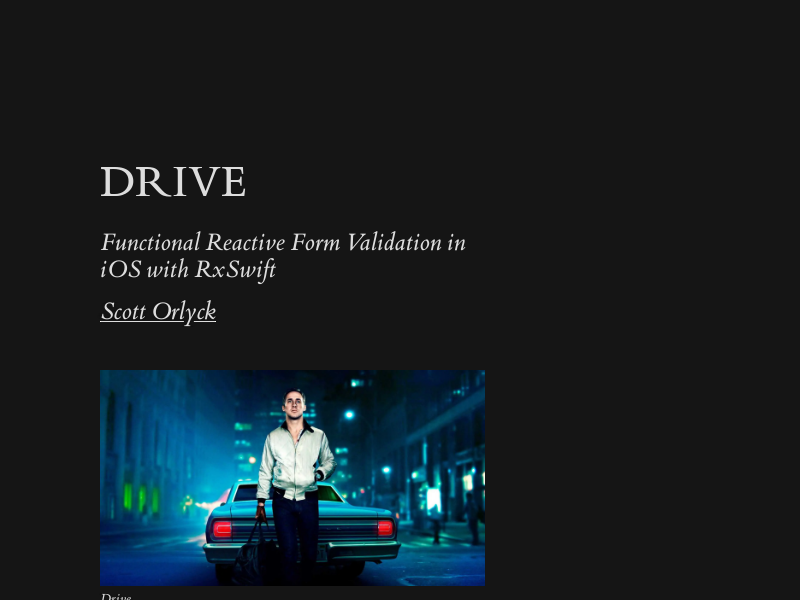
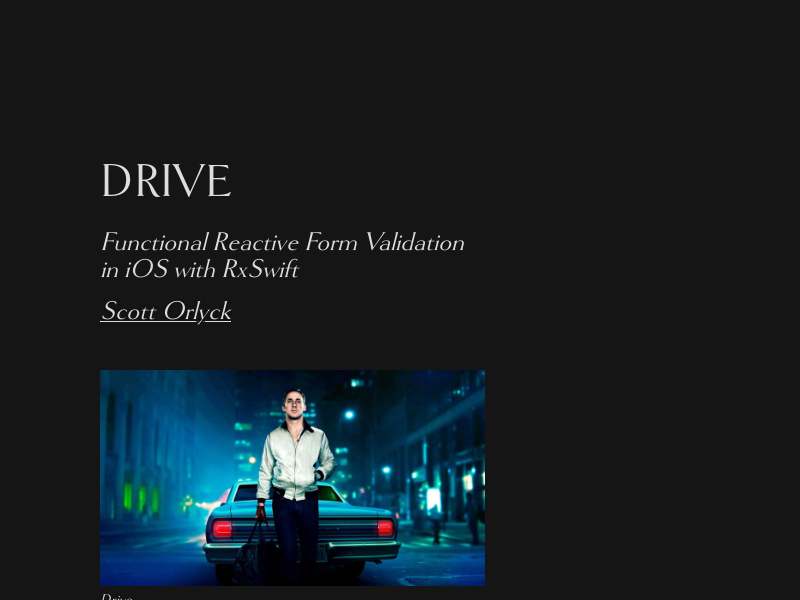
Render and commit.

diff --git a/docs/assets/index.d69d9aa2.css b/docs/assets/index.d69d9aa2.css
@@ -1,0 +1,1 @@
+@import"https://use.typekit.net/hax1mrg.css";html{font-size:15px}body{background-color:#fffff8;color:#111;counter-reset:sidenote-counter;font-family:goldenbook;margin-left:auto;margin-right:auto;max-width:1400px;padding-left:12.5%;width:87.5%}@media (color-index:48){body{background-color:#151515;color:#ddd}}@media (color:48842621){body{background-color:#151515;color:#ddd}}@media (prefers-color-scheme:dark){body{background-color:#151515;color:#ddd}}h1{font-size:3.2rem;font-weight:400;line-height:1;margin-bottom:1.5rem;margin-top:4rem}h2{font-size:2.2rem;margin-top:2.1rem}h2,h3{font-style:italic;font-weight:400;line-height:1;margin-bottom:1.4rem}h3{font-size:1.7rem;margin-top:2rem}hr{border:0;border-top:1px solid #ccc;display:block;height:1px;margin:1em 0;padding:0;width:55%}p.subtitle{display:block;font-size:1.8rem;font-style:italic;line-height:1;margin-bottom:1rem;margin-top:1rem}.numeral{font-family:goldenbook}.danger{color:red}article{padding:5rem 0}section{padding-bottom:1rem;padding-top:1rem}dl,ol,p,ul{font-size:1.4rem;line-height:2rem}p{margin-bottom:1.4rem;margin-top:1.4rem;padding-right:0;vertical-align:baseline}div.epigraph{margin:5em 0}div.epigraph>blockquote{margin-bottom:3em;margin-top:3em}div.epigraph>blockquote,div.epigraph>blockquote>p{font-style:italic}div.epigraph>blockquote>footer{font-style:normal}div.epigraph>blockquote>footer>cite{font-style:italic}blockquote{font-size:1.4rem}blockquote p{margin-right:40px;width:55%}blockquote footer{font-size:1.1rem;text-align:right;width:55%}section>footer,section>p,section>table{width:55%}section>dl,section>ol,section>ul{-webkit-padding-start:5%;width:50%}dt:not(:first-child),li:not(:first-child){margin-top:.25rem}figure{-webkit-margin-start:0;-webkit-margin-end:0;border:0;font-size:100%;font:inherit;margin:0 0 3em;max-width:55%;padding:0}figcaption,figure{vertical-align:baseline}figcaption{clear:right;float:right;font-size:1.1rem;line-height:1.6;margin-bottom:0;margin-top:0;max-width:40%;position:relative}figure.fullwidth figcaption{margin-right:24%}a:link,a:visited{color:inherit}.no-tufte-underline:link{background:transparent none repeat 0 0/auto auto padding-box border-box scroll;background:initial;text-shadow:inherit}.hover-tufte-underline:hover,.tufte-underline,a:link{background:linear-gradient(#fffff8,#fffff8),linear-gradient(#fffff8,#fffff8),linear-gradient(currentColor,currentColor);background-position:0 93%,100% 93%,0 93%;background-repeat:no-repeat,no-repeat,repeat-x;background-size:.05em 1px,.05em 1px,1px 1px;text-decoration:none;text-shadow:.03em 0 #fffff8,-.03em 0 #fffff8,0 .03em #fffff8,0 -.03em #fffff8,.06em 0 #fffff8,-.06em 0 #fffff8,.09em 0 #fffff8,-.09em 0 #fffff8,.12em 0 #fffff8,-.12em 0 #fffff8,.15em 0 #fffff8,-.15em 0 #fffff8}@media screen and (-webkit-min-device-pixel-ratio:0){.hover-tufte-underline:hover,.tufte-underline,a:link{background-position-y:87%,87%,87%}}@media (color-index:48){.hover-tufte-underline:hover,.tufte-underline,a:link{text-shadow:.03em 0 #151515,-.03em 0 #151515,0 .03em #151515,0 -.03em #151515,.06em 0 #151515,-.06em 0 #151515,.09em 0 #151515,-.09em 0 #151515,.12em 0 #151515,-.12em 0 #151515,.15em 0 #151515,-.15em 0 #151515}}@media (color:48842621){.hover-tufte-underline:hover,.tufte-underline,a:link{text-shadow:.03em 0 #151515,-.03em 0 #151515,0 .03em #151515,0 -.03em #151515,.06em 0 #151515,-.06em 0 #151515,.09em 0 #151515,-.09em 0 #151515,.12em 0 #151515,-.12em 0 #151515,.15em 0 #151515,-.15em 0 #151515}}@media (prefers-color-scheme:dark){.hover-tufte-underline:hover,.tufte-underline,a:link{text-shadow:.03em 0 #151515,-.03em 0 #151515,0 .03em #151515,0 -.03em #151515,.06em 0 #151515,-.06em 0 #151515,.09em 0 #151515,-.09em 0 #151515,.12em 0 #151515,-.12em 0 #151515,.15em 0 #151515,-.15em 0 #151515}}a:link::-moz-selection{background:#b4d5fe;text-shadow:.03em 0 #b4d5fe,-.03em 0 #b4d5fe,0 .03em #b4d5fe,0 -.03em #b4d5fe,.06em 0 #b4d5fe,-.06em 0 #b4d5fe,.09em 0 #b4d5fe,-.09em 0 #b4d5fe,.12em 0 #b4d5fe,-.12em 0 #b4d5fe,.15em 0 #b4d5fe,-.15em 0 #b4d5fe}a:link::-moz-selection,a:link::selection{background:#b4d5fe;text-shadow:.03em 0 #b4d5fe,-.03em 0 #b4d5fe,0 .03em #b4d5fe,0 -.03em #b4d5fe,.06em 0 #b4d5fe,-.06em 0 #b4d5fe,.09em 0 #b4d5fe,-.09em 0 #b4d5fe,.12em 0 #b4d5fe,-.12em 0 #b4d5fe,.15em 0 #b4d5fe,-.15em 0 #b4d5fe}img{max-width:100%}.marginnote,.sidenote{clear:right;float:right;font-size:1.1rem;line-height:1.3;margin-bottom:0;margin-right:-60%;margin-top:.3rem;position:relative;vertical-align:baseline;width:50%}.sidenote-number{counter-increment:sidenote-counter}.sidenote-number:after,.sidenote:before{font-family:goldenbook;position:relative;vertical-align:baseline}.sidenote-number:after{content:counter(sidenote-counter);font-size:1rem;left:.1rem;top:-.5rem}.sidenote:before{content:counter(sidenote-counter) " ";font-size:1rem;top:-.5rem}blockquote .marginnote,blockquote .sidenote{margin-right:-82%;min-width:59%;text-align:left}div.fullwidth,table.fullwidth{width:100%}div.table-wrapper{font-family:Trebuchet MS,Gill Sans,Gill Sans MT,sans-serif;overflow-x:auto}.sans{font-family:Gill Sans,Gill Sans MT,Calibri,sans-serif;letter-spacing:.03em}code,pre>code{-webkit-text-size-adjust:100%;font-family:anonymous-pro,monospace;font-size:1rem;line-height:1.42}.sans>code{font-size:1.2rem}h1>code,h2>code,h3>code{font-size:.8em}.marginnote>code,.sidenote>code{font-size:1rem}pre>code{display:block;font-size:.9rem;margin-left:2.5%;overflow-x:auto;width:52.5%}pre.fullwidth>code{width:90%}.fullwidth{clear:both;max-width:90%}span.newthought{-webkit-font-feature-settings:"smcp";font-feature-settings:"smcp";font-size:1.2em;font-variant:small-caps}input.margin-toggle{display:none}label.sidenote-number{display:inline-block;max-height:2rem}label.margin-toggle:not(.sidenote-number){display:none}.iframe-wrapper{height:0;padding-bottom:56.25%;padding-top:25px;position:relative}.iframe-wrapper iframe{height:100%;left:0;position:absolute;top:0;width:100%}@media (max-width:760px){body{padding-left:8%;padding-right:8%;width:84%}hr,section>footer,section>p,section>table{width:100%}pre>code{width:97%}section>dl,section>ol,section>ul{width:90%}figure{max-width:90%}figcaption,figure.fullwidth figcaption{margin-right:0;max-width:none}blockquote{margin-left:1.5em;margin-right:0}blockquote footer,blockquote p{width:100%}label.margin-toggle:not(.sidenote-number){display:inline}.marginnote,.sidenote{display:none}.margin-toggle:checked+.marginnote,.margin-toggle:checked+.sidenote{clear:both;display:block;float:left;left:1rem;margin:1rem 2.5%;position:relative;vertical-align:baseline;width:95%}label{cursor:pointer}div.table-wrapper,table{width:85%}img{width:100%}}pre[data-line]{padding:1em 0 1em 3em;position:relative}.line-highlight{background:hsla(24,20%,50%,.08);background:linear-gradient(90deg,hsla(24,20%,50%,.1) 70%,hsla(24,20%,50%,0));left:0;line-height:inherit;margin-top:1em;padding-bottom:inherit;padding-left:0;padding-right:0;padding-top:inherit;pointer-events:none;position:absolute;right:0;white-space:pre}@media print{.line-highlight{color-adjust:exact;-webkit-print-color-adjust:exact}}.line-highlight:before,.line-highlight[data-end]:after{background-color:#997a6666;border-radius:999px;box-shadow:0 1px #fff;color:#f5f2f0;content:attr(data-start);font:700 65%/1.5 sans-serif;left:.6em;min-width:1em;padding:0 .5em;position:absolute;text-align:center;text-shadow:none;top:.4em;vertical-align:.3em}.line-highlight[data-end]:after{bottom:.4em;content:attr(data-end);top:auto}.line-numbers .line-highlight:after,.line-numbers .line-highlight:before{content:none}pre[id].linkable-line-numbers span.line-numbers-rows{pointer-events:all}pre[id].linkable-line-numbers span.line-numbers-rows>span:before{cursor:pointer}pre[id].linkable-line-numbers span.line-numbers-rows>span:hover:before{background-color:#80808033}@media screen{code[class*=language-],pre[class*=language-]{background:#faf8f5;color:#728fcb;direction:ltr;font-family:Consolas,Menlo,Monaco,Andale Mono WT,Andale Mono,Lucida Console,Lucida Sans Typewriter,DejaVu Sans Mono,Bitstream Vera Sans Mono,Liberation Mono,Nimbus Mono L,Courier New,Courier,monospace;font-size:14px;-webkit-hyphens:none;-ms-hyphens:none;hyphens:none;line-height:1.375;-moz-tab-size:4;-o-tab-size:4;tab-size:4;text-align:left;white-space:pre;word-break:normal;word-spacing:normal}code[class*=language-] ::-moz-selection,code[class*=language-]::-moz-selection,pre[class*=language-] ::-moz-selection,pre[class*=language-]::-moz-selection{background:#faf8f5;text-shadow:none}code[class*=language-] ::selection,code[class*=language-]::selection,pre[class*=language-] ::selection,pre[class*=language-]::selection{background:#faf8f5;text-shadow:none}pre[class*=language-]{margin:.5em 0;overflow:auto;padding:1em}:not(pre)>code[class*=language-]{border-radius:.3em;padding:.1em}.token.cdata,.token.comment,.token.doctype,.token.prolog,.token.punctuation{color:#b6ad9a}.token.namespace{opacity:.7}.token.number,.token.operator,.token.tag{color:#063289}.token.function,.token.property{color:#b29762}.token.atrule-id,.token.selector,.token.tag-id{color:#2d2006}.token.attr-name,code.language-javascript{color:#896724}.language-css .token.string,.language-scss .token.string,.style .token.string,.token.atrule,.token.attr-value,.token.boolean,.token.control,.token.directive,.token.entity,.token.keyword,.token.regex,.token.statement,.token.string,.token.unit,.token.url,code.language-css,code.language-scss{color:#728fcb}.token.placeholder,.token.variable{color:#93abdc}.token.deleted{text-decoration:line-through}.token.inserted{border-bottom:1px dotted #2d2006;text-decoration:none}.token.italic{font-style:italic}.token.bold,.token.important{font-weight:700}.token.important{color:#896724}.token.entity{cursor:help}pre>code.highlight{outline:.4em solid #896724;outline-offset:.4em}.line-numbers.line-numbers .line-numbers-rows{border-right-color:#ece8de}.line-numbers .line-numbers-rows>span:before{color:#cdc4b1}.line-highlight.line-highlight{background:rgba(45,32,6,.2);background:linear-gradient(90deg,rgba(45,32,6,.2) 70%,rgba(45,32,6,0))}}@media screen and (color-index:48){code[class*=language-],pre[class*=language-]{background:#030314;color:#d6e7ff;direction:ltr;font-family:Consolas,Menlo,Monaco,Andale Mono WT,Andale Mono,Lucida Console,Lucida Sans Typewriter,DejaVu Sans Mono,Bitstream Vera Sans Mono,Liberation Mono,Nimbus Mono L,Courier New,Courier,monospace;font-size:14px;-webkit-hyphens:none;-ms-hyphens:none;hyphens:none;line-height:1.375;-moz-tab-size:4;-o-tab-size:4;tab-size:4;text-align:left;white-space:pre;word-break:normal;word-spacing:normal}code[class*=language-] ::-moz-selection,code[class*=language-]::-moz-selection,pre[class*=language-] ::-moz-selection,pre[class*=language-]::-moz-selection{background:#1d3b54;color:inherit;text-shadow:none}code[class*=language-] ::-moz-selection,code[class*=language-] ::selection,code[class*=language-]::-moz-selection,code[class*=language-]::selection,pre[class*=language-] ::-moz-selection,pre[class*=language-] ::selection,pre[class*=language-]::-moz-selection,pre[class*=language-]::selection{background:#1d3b54;color:inherit;text-shadow:none}pre[class*=language-]{border:1px solid #2a4555;border-radius:5px;margin:1em 0;overflow:auto}:not(pre)>code[class*=language-]{background:#2a4555;border-radius:.2em;-webkit-box-decoration-break:clone;box-decoration-break:clone;color:#f0f6f6;padding:.2em .3em}.token.cdata,.token.comment,.token.doctype,.token.prolog{color:#446e69}.token.punctuation{color:#d6b007}.token.boolean,.token.constant,.token.deleted,.token.number,.token.property,.token.symbol,.token.tag{color:#d6e7ff}.token.attr-name,.token.builtin,.token.inserted,.token.selector{color:#e60067}.token.char,.token.string{color:#49c6ec}.language-css .token.string,.style .token.string,.token.entity,.token.operator,.token.url{background:transparent;color:#ec8e01}.token.atrule,.token.attr-value,.token.keyword{color:#0fe468}.token.class-name,.token.function{color:#78f3e9}.token.important,.token.regex,.token.variable{color:#d6e7ff}}@media screen and (color:48842621){code[class*=language-],pre[class*=language-]{background:#030314;color:#d6e7ff;direction:ltr;font-family:Consolas,Menlo,Monaco,Andale Mono WT,Andale Mono,Lucida Console,Lucida Sans Typewriter,DejaVu Sans Mono,Bitstream Vera Sans Mono,Liberation Mono,Nimbus Mono L,Courier New,Courier,monospace;font-size:14px;-webkit-hyphens:none;-ms-hyphens:none;hyphens:none;line-height:1.375;-moz-tab-size:4;-o-tab-size:4;tab-size:4;text-align:left;white-space:pre;word-break:normal;word-spacing:normal}code[class*=language-] ::-moz-selection,code[class*=language-]::-moz-selection,pre[class*=language-] ::-moz-selection,pre[class*=language-]::-moz-selection{background:#1d3b54;color:inherit;text-shadow:none}code[class*=language-] ::-moz-selection,code[class*=language-] ::selection,code[class*=language-]::-moz-selection,code[class*=language-]::selection,pre[class*=language-] ::-moz-selection,pre[class*=language-] ::selection,pre[class*=language-]::-moz-selection,pre[class*=language-]::selection{background:#1d3b54;color:inherit;text-shadow:none}pre[class*=language-]{border:1px solid #2a4555;border-radius:5px;margin:1em 0;overflow:auto}:not(pre)>code[class*=language-]{background:#2a4555;border-radius:.2em;-webkit-box-decoration-break:clone;box-decoration-break:clone;color:#f0f6f6;padding:.2em .3em}.token.cdata,.token.comment,.token.doctype,.token.prolog{color:#446e69}.token.punctuation{color:#d6b007}.token.boolean,.token.constant,.token.deleted,.token.number,.token.property,.token.symbol,.token.tag{color:#d6e7ff}.token.attr-name,.token.builtin,.token.inserted,.token.selector{color:#e60067}.token.char,.token.string{color:#49c6ec}.language-css .token.string,.style .token.string,.token.entity,.token.operator,.token.url{background:transparent;color:#ec8e01}.token.atrule,.token.attr-value,.token.keyword{color:#0fe468}.token.class-name,.token.function{color:#78f3e9}.token.important,.token.regex,.token.variable{color:#d6e7ff}}@media screen and (prefers-color-scheme:dark){code[class*=language-],pre[class*=language-]{background:#030314;color:#d6e7ff;direction:ltr;font-family:Consolas,Menlo,Monaco,Andale Mono WT,Andale Mono,Lucida Console,Lucida Sans Typewriter,DejaVu Sans Mono,Bitstream Vera Sans Mono,Liberation Mono,Nimbus Mono L,Courier New,Courier,monospace;font-size:14px;-webkit-hyphens:none;-ms-hyphens:none;hyphens:none;line-height:1.375;-moz-tab-size:4;-o-tab-size:4;tab-size:4;text-align:left;white-space:pre;word-break:normal;word-spacing:normal}code[class*=language-] ::-moz-selection,code[class*=language-]::-moz-selection,pre[class*=language-] ::-moz-selection,pre[class*=language-]::-moz-selection{background:#1d3b54;color:inherit;text-shadow:none}code[class*=language-] ::-moz-selection,code[class*=language-] ::selection,code[class*=language-]::-moz-selection,code[class*=language-]::selection,pre[class*=language-] ::-moz-selection,pre[class*=language-] ::selection,pre[class*=language-]::-moz-selection,pre[class*=language-]::selection{background:#1d3b54;color:inherit;text-shadow:none}pre[class*=language-]{border:1px solid #2a4555;border-radius:5px;margin:1em 0;overflow:auto}:not(pre)>code[class*=language-]{background:#2a4555;border-radius:.2em;-webkit-box-decoration-break:clone;box-decoration-break:clone;color:#f0f6f6;padding:.2em .3em}.token.cdata,.token.comment,.token.doctype,.token.prolog{color:#446e69}.token.punctuation{color:#d6b007}.token.boolean,.token.constant,.token.deleted,.token.number,.token.property,.token.symbol,.token.tag{color:#d6e7ff}.token.attr-name,.token.builtin,.token.inserted,.token.selector{color:#e60067}.token.char,.token.string{color:#49c6ec}.language-css .token.string,.style .token.string,.token.entity,.token.operator,.token.url{background:transparent;color:#ec8e01}.token.atrule,.token.attr-value,.token.keyword{color:#0fe468}.token.class-name,.token.function{color:#78f3e9}.token.important,.token.regex,.token.variable{color:#d6e7ff}}.small{font-size:.875rem;line-height:1.25rem}.code{width:100%}pre[class*=language-]{overflow:hidden}.line-highlight:before,.line-highlight[data-end]:after{box-shadow:none}@media (max-width:760px){.small{width:100%}figure{max-width:100%}}@media (color-index:70){.line-highlight.line-highlight{background:rgba(45,32,6,.2);background:linear-gradient(90deg,rgba(45,32,6,.05) 70%,rgba(45,32,6,0))}}@media (color:70318723){.line-highlight.line-highlight{background:rgba(45,32,6,.2);background:linear-gradient(90deg,rgba(45,32,6,.05) 70%,rgba(45,32,6,0))}}@media (prefers-color-scheme:light){.line-highlight.line-highlight{background:rgba(45,32,6,.2);background:linear-gradient(90deg,rgba(45,32,6,.05) 70%,rgba(45,32,6,0))}}

diff --git a/docs/index.html b/docs/index.html
@@ -16,8 +16,7 @@
         <meta property="og:image" content="https://github.com/scottorly/drive/raw/main/thumbnail.png">
         <meta property="og:image:secure" content="https://github.com/scottorly/drive/raw/main/thumbnail.png">
       
-      
-      <link rel="stylesheet" href="/drive/assets/index.1f86d69c.css">
+      <link rel="stylesheet" href="/drive/assets/index.d69d9aa2.css">
     </head>
     
 <body>
